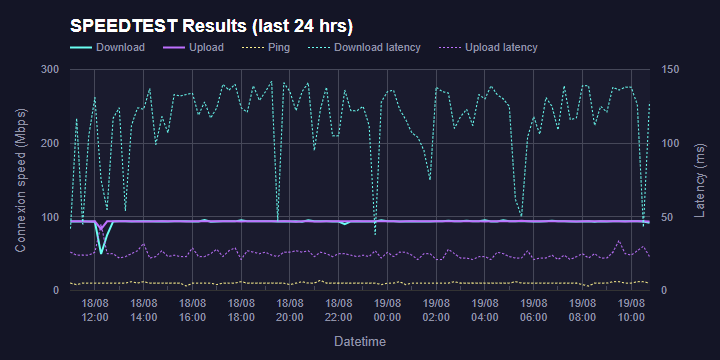
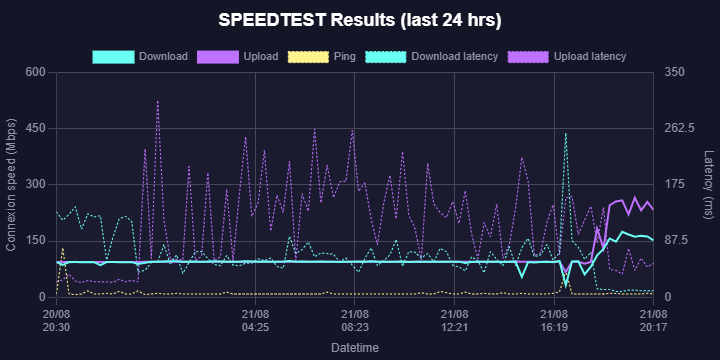
docs: document v2.0.0-alpha.3 milestone

diff --git a/README.md b/README.md
@@ -35,6 +35,7 @@ Self-hosted Docker application for continuously monitoring Internet connection p
   - [Data Volumes](#data-volumes)
   - [Ports](#ports)
 - [Accessing the GUI](#accessing-the-gui)
+- [Dashboard Visualization](#dashboard-visualization)
 - [REST API](#rest-api)
 - [Persistent Data](#persistent-data)
 - [Backup and Restore](#backup-and-restore)
@@ -45,6 +46,11 @@ Self-hosted Docker application for continuously monitoring Internet connection p
 - [Building Locally](#building-locally)
 - [Development](#development)
 - [Versions](#versions)
+   - [v1.0.0](#v100)
+   - [v2.0.0-alpha.1](#v200-alpha1)
+   - [v2.0.0-alpha.2](#v200-alpha2)
+   - [v2.0.0-alpha.3](#v200-alpha3)
+   - [v2.0.0](#v200)
 - [Troubleshooting](#troubleshooting)
 - [License](#license)
 - [Third-party Software](#third-party-software)
@@ -71,15 +77,18 @@ Current functionality includes:
 - Automatic creation of default settings and the SQLite database.
 - Startup validation for scheduler settings.
 - Preservation of existing user-provided settings and historical SQLite data.
+- Local Chart.js visualization with no runtime CDN dependency.
+- 24-hour, weekly, and monthly charts rendered from the existing PHP-generated datasets.
+- Dashboard charts available over LAN even when WAN access is unavailable.
 
 > **ToDo:** Update this section as additional Version 2 functionality is implemented and validated.
 
 
 ## Architecture
 
-Version 2 is being implemented incrementally. The current development milestone, `v2.0.0-alpha.2`, keeps the three-container architecture introduced in Alpha 1 while adding a single persistent application-state location and automatic initialization.
+Version 2 is being implemented incrementally. The current development milestone, `v2.0.0-alpha.3`, keeps the three-container architecture from Alpha 2 while replacing Google Charts with a locally bundled Chart.js runtime.
 
-Current `v2.0.0-alpha.2` architecture:
+Current `v2.0.0-alpha.3` architecture:
 
 ```mermaid
 flowchart TB
@@ -102,15 +111,17 @@ flowchart TB
     end
 
     subgraph PHPContainer["PHP container"]
-        PHP["PHP Backend"]
+        PHP["PHP Backend<br/>Generates chart datasets"]
     end
 
     subgraph NginxContainer["Nginx container"]
-        Nginx["Nginx"]
+        Nginx["Nginx<br/>Serves frontend + local assets"]
+        ChartJS["Local Chart.js<br/>/web_page/js/vendor/chart.umd.min.js"]
+
+        Nginx --> ChartJS
     end
 
     Browser["Web Browser"]
-    Google["Google Charts"]
 
     Config --> Settings
     DBInit --> SQLite
@@ -118,7 +129,6 @@ flowchart TB
     SQLite --> PHP
     PHP --> Nginx
     Nginx --> Browser
-    Browser --> Google
 ```
 
 Persistent application state:
@@ -145,6 +155,19 @@ Current internal collector layout:
 │   └── schema.sql
 └── bin/
     └── speedtest
+```
+
+Current frontend layout:
+
+```text
+/web_page/
+├── index.php
+├── database.php
+├── stylesheet.css
+└── js/
+    └── vendor/
+        ├── chart.umd.min.js
+        └── README.md
 ```
 
 The final target for Version 2 remains a single self-contained Docker application combining data collection, persistence, scheduling, visualization, and a public REST API.
@@ -175,7 +198,7 @@ flowchart TB
         Collector --> Database
         API --> Database
     end
-    
+
     Browser["Web Browser"]
 
     Browser --> FastAPI
@@ -371,6 +394,25 @@ http://SERVER_IP:8080
 ```
 
 > **ToDo:** Update this section when the Version 2 web interface becomes available.
+
+
+## Dashboard Visualization
+
+`v2.0.0-alpha.3` replaces the Google Charts runtime with Chart.js bundled locally under:
+
+```text
+/web_page/js/vendor/chart.umd.min.js
+```
+
+The current dashboard continues to use PHP-generated datasets and preserves the existing historical views:
+
+- Last 24 hours.
+- Last week.
+- Last month.
+
+Chart rendering no longer depends on Google Charts, a CDN, or WAN connectivity. This behavior was validated by disconnecting the WAN uplink while keeping the client and server connected through the local network and loading the dashboard through LAN.
+
+> **ToDo:** The frontend structure and responsive behavior will be refactored in a later milestone.
 
 
 ## REST API
@@ -582,6 +624,21 @@ Alpha 2 introduces:
 - Internal separation of collector, configuration, database, and bundled executable files.
 
 
+### v2.0.0-alpha.3
+
+Third functional Version 2 development milestone.
+
+Alpha 3 introduces:
+
+- Chart.js as the dashboard charting library.
+- A locally bundled Chart.js runtime with no CDN dependency.
+- Chart.js rendering for the existing 24-hour, weekly, and monthly historical datasets.
+- PHP-generated JSON-compatible chart datasets.
+- Local serving of frontend assets through Nginx.
+- Offline/LAN-only dashboard visualization without WAN access.
+- Chart scaling across the full available X-axis data range.
+
+
 ### v2.0.0
 
 > **ToDo:** Currently under development.
@@ -619,7 +676,13 @@ See [LICENSE](LICENSE) for details.
 This project uses Ookla's Speedtest CLI to perform network speed measurements.
 Ookla Speedtest CLI is distributed and licensed separately by Ookla.
 
-Version 2 development also uses APScheduler for internal Speedtest scheduling.
+Version 2 development also uses:
+
+- APScheduler for internal Speedtest scheduling.
+- PyYAML for YAML settings parsing.
+- Chart.js for local dashboard visualization.
+
+Chart.js is bundled locally with the project so dashboard charts do not require CDN or WAN access at runtime.
 
 > **ToDo:** Add additional third-party runtime components and their licenses as Version 2 dependencies are finalized.
 

diff --git a/ROADMAP.md b/ROADMAP.md
@@ -68,7 +68,7 @@ flowchart LR
     V1["v1.0.0<br/>3 containers<br/>Host cron<br/>Google Charts"]
     A1["alpha.1 ✓<br/>3 containers<br/>APScheduler"]
     A2["alpha.2 ✓<br/>3 containers<br/>Persistent /config"]
-    A3["alpha.3<br/>3 containers<br/>Chart.js"]
+    A3["alpha.3 ✓<br/>3 containers<br/>Chart.js"]
     A4["alpha.4<br/>3 containers<br/>Frontend refactor"]
     A5["alpha.5<br/>2 containers<br/>FastAPI + REST API"]
     A6["alpha.6<br/>2 containers<br/>Database V2"]
@@ -199,23 +199,29 @@ Introduce a single persistent application-state location and make initial setup 
 
 ## v2.0.0-alpha.3 — Offline Chart.js visualization
 
+**Status:** ✅ Completed
+
 ### Goal
 
 Remove the frontend dependency on Google Charts while keeping the existing datasets and backend behavior.
 
 
-### Planned work
+### Completed work
 
-- Replace Google Charts with Chart.js.
-- Bundle Chart.js locally.
-- Keep current historical datasets initially.
-- Preserve current PHP-generated data.
-- Verify existing 24-hour, weekly and monthly views.
-- Ensure charts work without WAN access.
-- Remove all external chart/CDN dependencies.
+- Replaced Google Charts with Chart.js.
+- Bundled Chart.js locally under `web_page/js/vendor/`.
+- Preserved the current 24-hour, weekly, and monthly historical datasets.
+- Preserved PHP as the current data-producing backend.
+- Changed PHP chart output to JSON-compatible datasets consumed by Chart.js.
+- Updated Nginx/PHP container packaging so frontend assets are available locally.
+- Preserved the existing dashboard views and overall presentation.
+- Updated chart scaling so each dataset uses the full available X-axis range.
+- Removed the Google Charts runtime dependency.
+- Removed external chart/CDN requirements during application runtime.
+- Verified chart rendering over LAN with the WAN uplink physically disconnected.
 
 
-### Required validation
+### Validation
 
 ```text
 WAN disconnected
@@ -225,6 +231,9 @@ Dashboard opened through LAN
       │
       ▼
 Charts render correctly
+      │
+      ▼
+PASSED
 ```
 
 
@@ -467,7 +476,7 @@ flowchart TB
     end
 
     SQLite[("SQLite")]
-    Config["config.yaml"]
+    Config["settings.yaml"]
 
     Browser --> FastAPI
     External --> API
@@ -538,6 +547,7 @@ Prepare the new architecture for a stable public release.
 ### Docker
 
 - Final Dockerfile.
+- Extract the bundled Ookla Speedtest CLI archive during the Docker image build so no manual pre-extraction is required.
 - OCI image labels.
 - `/config` permissions.
 - Image size review.

diff --git a/CHANGELOG.md b/CHANGELOG.md
@@ -9,6 +9,7 @@ Development plans and upcoming milestones are documented separately in [ROADMAP.
 
 ## Table of Contents
 
+- [[v2.0.0-alpha.3] - 2026-08-21](#v200-alpha3---2026-08-21)
 - [[v2.0.0-alpha.2] - 2026-08-20](#v200-alpha2---2026-08-20)
 - [[v2.0.0-alpha.1] - 2026-08-20](#v200-alpha1---2026-08-20)
 - [[v1.0.0] - 2026-08-19](#v100---2026-08-19)
@@ -17,6 +18,53 @@ Development plans and upcoming milestones are documented separately in [ROADMAP.
 ## [Unreleased]
 
 No unreleased changes yet.
+
+
+## [v2.0.0-alpha.3] - 2026-08-21
+
+Third functional development milestone toward Version 2.
+
+
+### Added
+
+- Added Chart.js as the local dashboard charting library.
+- Added the vendored Chart.js UMD runtime under `web_page/js/vendor/`.
+- Added local frontend asset delivery through the existing Nginx container.
+- Added JSON-compatible PHP-generated datasets for Chart.js.
+- Added reusable JavaScript helpers for chart data conversion and date formatting.
+
+
+### Changed
+
+- Replaced Google Charts rendering with Chart.js.
+- Changed the 24-hour, weekly, and monthly charts to consume the same existing historical datasets through Chart.js.
+- Changed chart X-axis scaling so datasets span the full available chart width.
+- Updated Nginx and PHP image packaging to include the current frontend files and local JavaScript assets.
+- Preserved the current PHP backend, SQLite schema, collector behavior, and three-container architecture.
+
+
+### Removed
+
+- Removed the Google Charts frontend runtime dependency.
+- Removed the need for an external chart/CDN connection during dashboard runtime.
+
+
+### Validation
+
+- Verified the latest-result view continues to render.
+- Verified the 24-hour chart renders correctly.
+- Verified the weekly chart renders correctly.
+- Verified the monthly chart renders correctly.
+- Verified the dashboard works with a copy of the existing production SQLite database.
+- Verified the dashboard can be loaded through LAN with the WAN uplink physically disconnected.
+- Verified Chart.js is loaded from the local application assets rather than an external CDN.
+
+
+### Documentation
+
+- Updated the README with the Alpha 3 Chart.js architecture and offline behavior.
+- Marked `v2.0.0-alpha.3` as completed in the Version 2 roadmap.
+- Added the final Docker packaging task for automatic extraction of the bundled Ookla Speedtest CLI archive before the Version 2 stable release.
 
 
 ## [v2.0.0-alpha.2] - 2026-08-20
